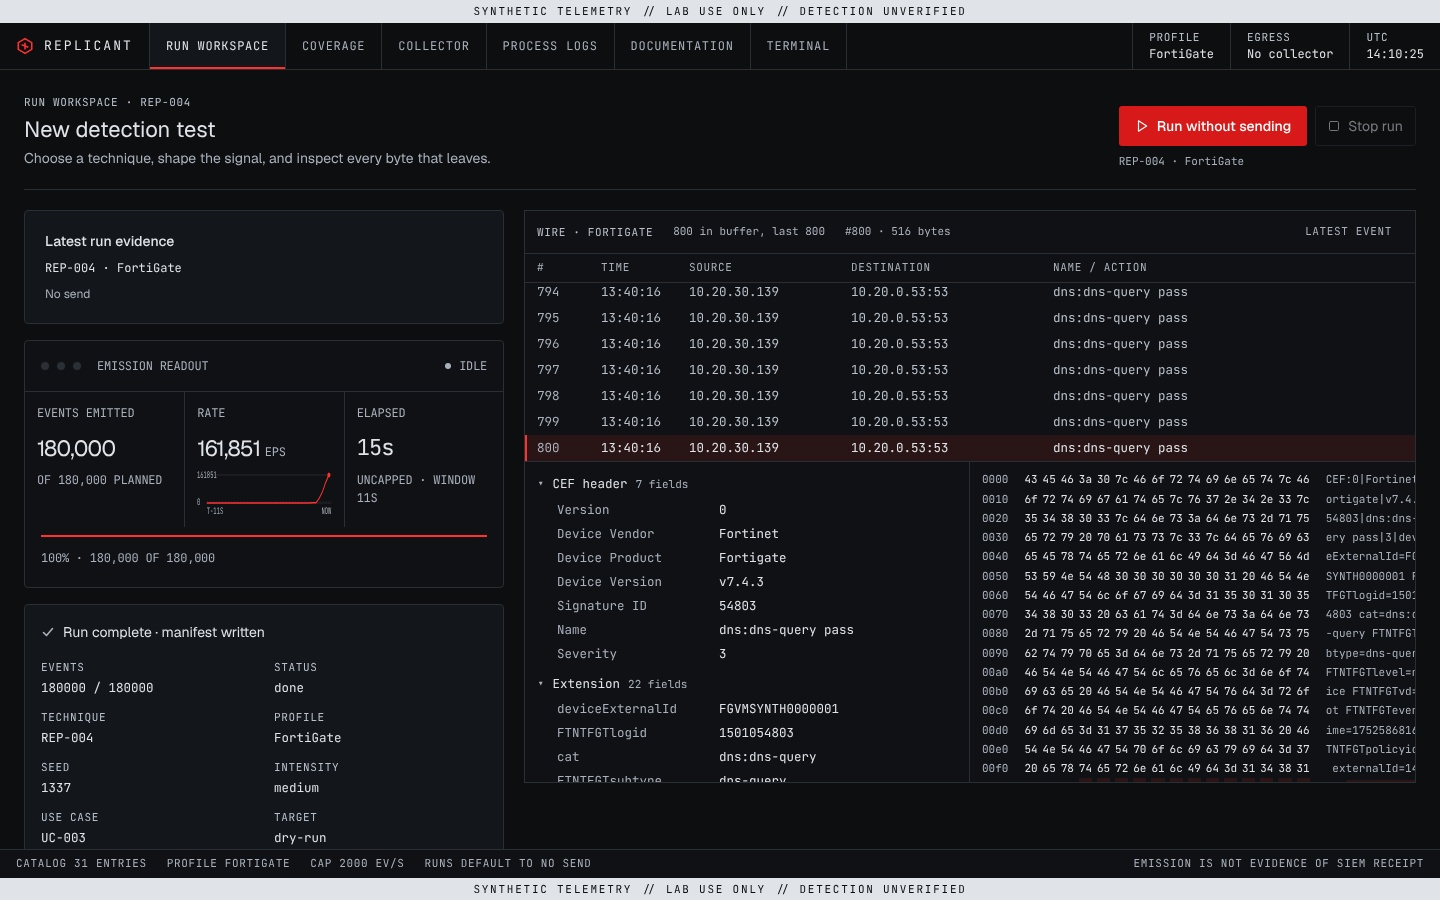
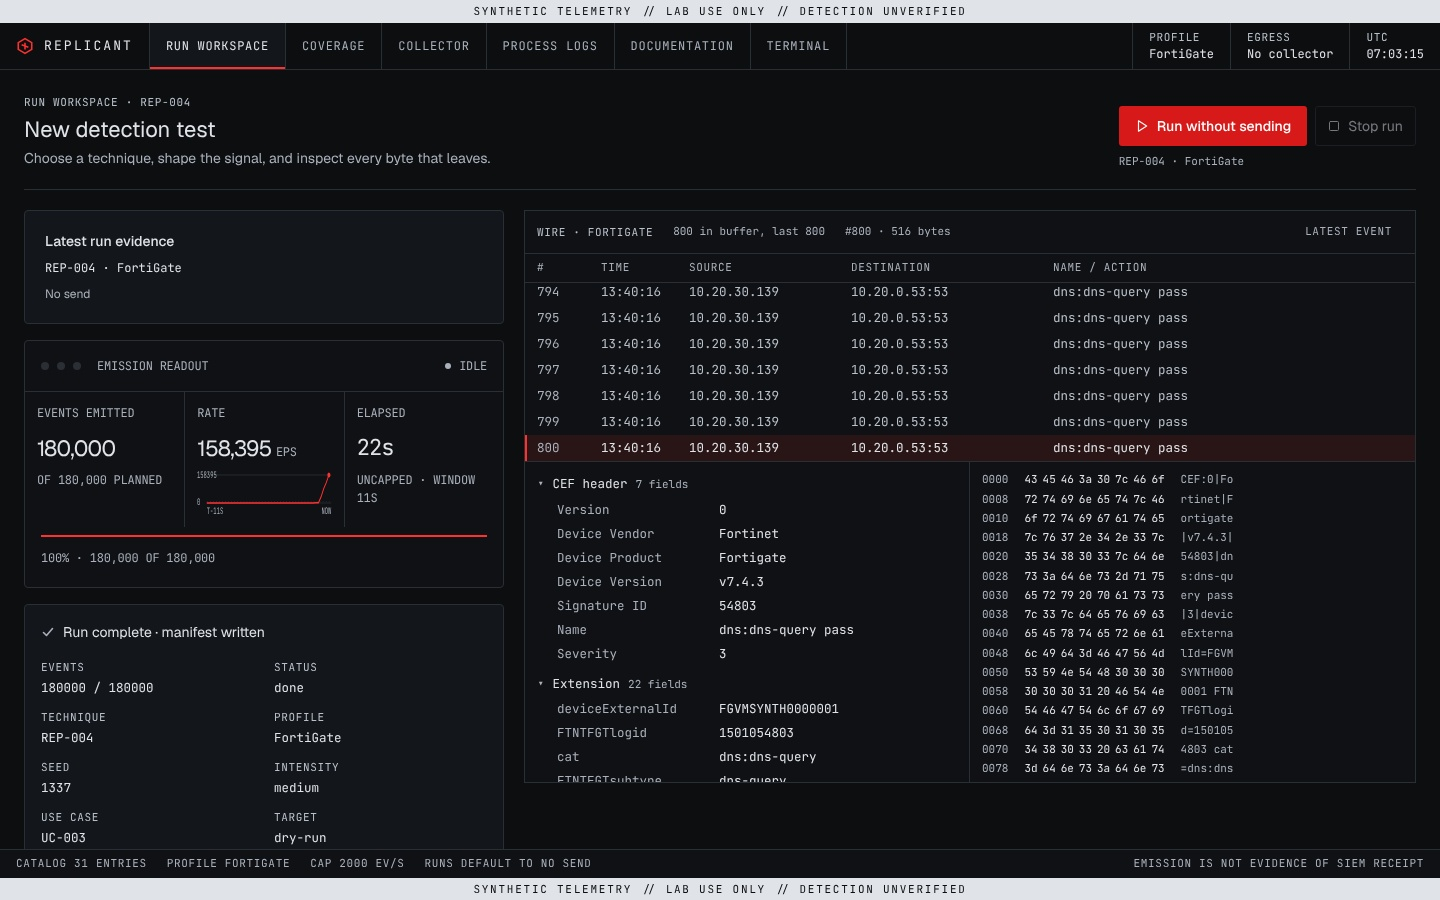
fix(webui): Wire view byte rows fit their own box (#125)
The hex dump drew 16 bytes per row in a box narrower than that row,
on a phone and also on desktop: the wire shares the evidence band
with the readout, so at 1440 wide its byte box is 445px against the
roughly 461 a 16-byte row needs, and the ASCII column was clipped.

The dump now measures its own box with a ResizeObserver and drops to
8 bytes per row when 16 do not fit, with hysteresis so it cannot flap.
Measured in Chromium at 390, 768, 1280, 1440 and 1920: no sideways
scroll in the byte box or the page. README screenshots regenerated.

Claude-Session: https://claude.ai/code/session_01HbjsVBv8HQSQkAds6W5Y1v

Changed region(s): [[0.6875, 0.5289, 1.0, 0.8711], [0.125, 0.4667, 0.1875, 0.5289]]

diff --git a/webui/src/components/WireView.tsx b/webui/src/components/WireView.tsx
@@ -17,7 +17,7 @@
 // the same line as bytes. Selecting a field lights its bytes. Everything shown
 // is parsed from the line itself; nothing here is inferred from the plan.
 
-import { useEffect, useRef, useState } from "react";
+import { type RefObject, useEffect, useLayoutEffect, useRef, useState } from "react";
 import { cn } from "@/lib/utils";
 import {
   byteSpan,
@@ -29,6 +29,34 @@ import {
   type CefDissection,
   type Span,
 } from "@/lib/cef";
+
+// The byte view draws 16 bytes per row when a row fits its own box and 8 when it
+// does not. The box is narrower than the viewport (the wire shares the evidence
+// band with the readout), so a viewport breakpoint cannot decide this; it is
+// measured. `overflowedAt` is the widest box a 16-byte row has overflowed, so
+// only a wider box tries 16 again and the layout cannot flap between the two.
+function useBytesPerRow(box: RefObject<HTMLDivElement | null>, line: string | undefined): number {
+  const [wide, setWide] = useState(true);
+  const overflowedAt = useRef(0);
+  useLayoutEffect(() => {
+    const el = box.current;
+    if (!el) return;
+    const fit = () => {
+      if (wide && el.scrollWidth > el.clientWidth) {
+        overflowedAt.current = el.clientWidth;
+        setWide(false);
+      } else if (!wide && el.clientWidth > overflowedAt.current) {
+        setWide(true);
+      }
+    };
+    fit();
+    if (typeof ResizeObserver !== "function") return;
+    const observer = new ResizeObserver(fit);
+    observer.observe(el);
+    return () => observer.disconnect();
+  }, [box, wide, line]);
+  return wide ? 16 : 8;
+}
 
 interface WireViewProps {
   lines: string[];
@@ -80,6 +108,7 @@ const GROUP_LABELS: Record<Field["group"], string> = {
 export function WireView({ lines, running, revision, heldFields, bufferLimit, profile }: WireViewProps) {
   const [pinned, setPinned] = useState<string | null>(null);
   const [fieldId, setFieldId] = useState<string | null>(null);
+  const bytesBox = useRef<HTMLDivElement | null>(null);
   const listRef = useRef<HTMLDivElement | null>(null);
   const parsed = useRef(new Map<string, CefDissection | null>());
 
@@ -98,6 +127,7 @@ export function WireView({ lines, running, revision, heldFields, bufferLimit, pr
   const pinnedIndex = pinned === null ? -1 : lines.lastIndexOf(pinned);
   const following = pinnedIndex === -1;
   const selectedIndex = following ? lines.length - 1 : pinnedIndex;
+  const bytesPerRow = useBytesPerRow(bytesBox, lines[selectedIndex]);
 
   useEffect(() => {
     if (following && listRef.current) listRef.current.scrollTop = listRef.current.scrollHeight;
@@ -118,7 +148,7 @@ export function WireView({ lines, running, revision, heldFields, bufferLimit, pr
   const defaultField = fields.find((f) => f.note === "held") ?? fields.find((f) => f.group === "extension") ?? null;
   const field = fields.find((f) => f.id === fieldId) ?? defaultField;
   const highlight = field ? byteSpan(line, field) : null;
-  const rows = hexRows(line);
+  const rows = hexRows(line, bytesPerRow);
   const totalBytes = new TextEncoder().encode(line).length;
 
   return (
@@ -187,7 +217,7 @@ export function WireView({ lines, running, revision, heldFields, bufferLimit, pr
           })}
         </div>
 
-        <div aria-label="Bytes" role="group" className="scroll-thin max-h-80 min-w-0 overflow-auto px-3 py-2 font-mono text-micro leading-[1.75]">
+        <div ref={bytesBox} aria-label="Bytes" role="group" className="scroll-thin max-h-80 min-w-0 overflow-auto px-3 py-2 font-mono text-micro leading-[1.75]">
           {rows.map((row) => (
             <div key={row.offset} className="flex gap-4 whitespace-pre">
               <span className="text-muted-foreground">{row.offset.toString(16).padStart(4, "0")}</span>

diff --git a/webui/src/components/WireView.test.tsx b/webui/src/components/WireView.test.tsx
@@ -12,8 +12,8 @@
 // See the License for the specific language governing permissions and
 // limitations under the License.
 
-import { fireEvent, render, screen, within } from "@testing-library/react";
-import { describe, expect, it } from "vitest";
+import { act, fireEvent, render, screen, within } from "@testing-library/react";
+import { afterEach, describe, expect, it, vi } from "vitest";
 import { WireView } from "./WireView";
 
 const line = (n: number, dst = "203.0.113.47") =>
@@ -32,6 +32,45 @@ function litBytes(): string {
     .map((el) => el.textContent)
     .join("");
 }
+
+/** The offset column of the hex dump, one entry per row. */
+function rowOffsets(): string[] {
+  const bytes = screen.getByRole("group", { name: "Bytes" });
+  return Array.from(bytes.querySelectorAll(":scope > div > span:first-child")).map((el) => el.textContent ?? "");
+}
+
+/**
+ * jsdom does no layout, so the byte box's widths are modelled: each drawn byte
+ * column costs 24px plus 70px for the offset and padding. A ResizeObserver
+ * stand-in lets the test resize the box and announce it.
+ */
+function stubBox(width: number) {
+  let boxWidth = width;
+  const observers = new Set<() => void>();
+  const isBox = (el: Element) => el.getAttribute("aria-label") === "Bytes";
+  const perRow = (el: Element) => el.querySelector(":scope > div > span:nth-child(2)")?.childElementCount ?? 0;
+  vi.spyOn(HTMLElement.prototype, "clientWidth", "get").mockImplementation(function (this: HTMLElement) {
+    return isBox(this) ? boxWidth : 0;
+  });
+  vi.spyOn(HTMLElement.prototype, "scrollWidth", "get").mockImplementation(function (this: HTMLElement) {
+    return isBox(this) ? Math.max(boxWidth, perRow(this) * 24 + 70) : 0;
+  });
+  vi.stubGlobal("ResizeObserver", class {
+    private readonly fn: () => void;
+    constructor(fn: () => void) { this.fn = fn; }
+    observe() { observers.add(this.fn); }
+    disconnect() { observers.delete(this.fn); }
+  });
+  return (next: number) => {
+    boxWidth = next;
+    observers.forEach((fn) => fn());
+  };
+}
+
+afterEach(() => {
+  vi.unstubAllGlobals();
+  vi.restoreAllMocks();
+});
 
 describe("WireView", () => {
   it("lists every buffered event with its parsed time, endpoints and summary", () => {
@@ -80,5 +119,32 @@ describe("WireView", () => {
     expect(screen.getByText("Wire · fortigate")).toBeInTheDocument();
     render(<WireView lines={[]} running revision={0} heldFields={[]} bufferLimit={800} profile="fortigate" />);
     expect(screen.getByText("Waiting for the first event…")).toBeInTheDocument();
+  });
+
+  it("draws 16 bytes per row when they fit the byte box and 8 when they do not", () => {
+    // 16 columns need 454px in this model, 8 need 262px.
+    const resize = stubBox(500);
+    renderWire([line(0)]);
+    expect(rowOffsets().slice(0, 3)).toEqual(["0000", "0010", "0020"]);
+    act(() => resize(356));
+    expect(rowOffsets().slice(0, 3)).toEqual(["0000", "0008", "0010"]);
+    // The highlight is byte-addressed, so it survives the row width changing.
+    expect(litBytes()).toBe("src=10.20.30.139");
+    act(() => resize(600));
+    expect(rowOffsets().slice(0, 2)).toEqual(["0000", "0010"]);
+  });
+
+  it("starts at 8 bytes per row when the first box is already too narrow, as on a phone", () => {
+    stubBox(356);
+    renderWire([line(0)]);
+    expect(rowOffsets().slice(0, 2)).toEqual(["0000", "0008"]);
+  });
+
+  it("does not flap: a box that overflowed at 16 only tries 16 again once it is wider", () => {
+    const resize = stubBox(440);
+    renderWire([line(0)]);
+    expect(rowOffsets().slice(0, 2)).toEqual(["0000", "0008"]);
+    act(() => resize(430));
+    expect(rowOffsets().slice(0, 2)).toEqual(["0000", "0008"]);
   });
 });

diff --git a/docs/webui-silver-red-design.md b/docs/webui-silver-red-design.md
@@ -71,6 +71,16 @@ What changed, and the rules that now bind:
   selection follows the event, not its index, as the bounded buffer drops old
   lines. Held keys are shown only when the loaded technique and profile are
   the ones the stream was rendered with.
+  Implementation note (2026-10-20): the byte view draws 16 bytes per row when
+  a row fits its own box and 8 when it does not, measured with a
+  ResizeObserver. A viewport breakpoint was the first idea and would have been
+  wrong: the wire shares the evidence band with the readout, so at 1280 and
+  1440 its byte box is 365 and 445px wide, a 16-byte row needs about 461, and
+  the ASCII column was clipped on desktop as well as on a phone (it shows in
+  the 2026-10-19 `webui-run.jpg`). Measured after the change in Chromium at
+  390, 768, 1280, 1440 and 1920: no sideways scroll in the byte box or the
+  page; 16 bytes per row at 768 and 1920, 8 at the others. The highlight is
+  byte-addressed, so it is unaffected by the row width.
 - **Full technique reference** spans both columns below the run form. Inside
   the right column, opening it left the left column ending above an empty half
   screen.

diff --git a/CHANGELOG.md b/CHANGELOG.md
@@ -6,6 +6,14 @@ Claims that have not been validated against a live vendor build or a real host a
 
 ## [Unreleased]
 
+### Fixed (web UI: Wire view byte rows, 2026-10-20)
+
+- **The Wire view's hex dump no longer scrolls sideways or clips its ASCII column.** It drew
+  16 bytes per row in a box that is narrower than that row on a phone and also on desktop,
+  because the wire shares the evidence band with the readout (445px of the roughly 461 a row
+  needs at 1440 wide). It now measures its own box and drops to 8 bytes per row when 16 do
+  not fit, with hysteresis so it cannot flap. README screenshots regenerated.
+
 ### Documentation (owner decisions, 2026-10-20)
 
 - **The repository is public, and the backlog said otherwise.** `tasks/todo.md` still listed
